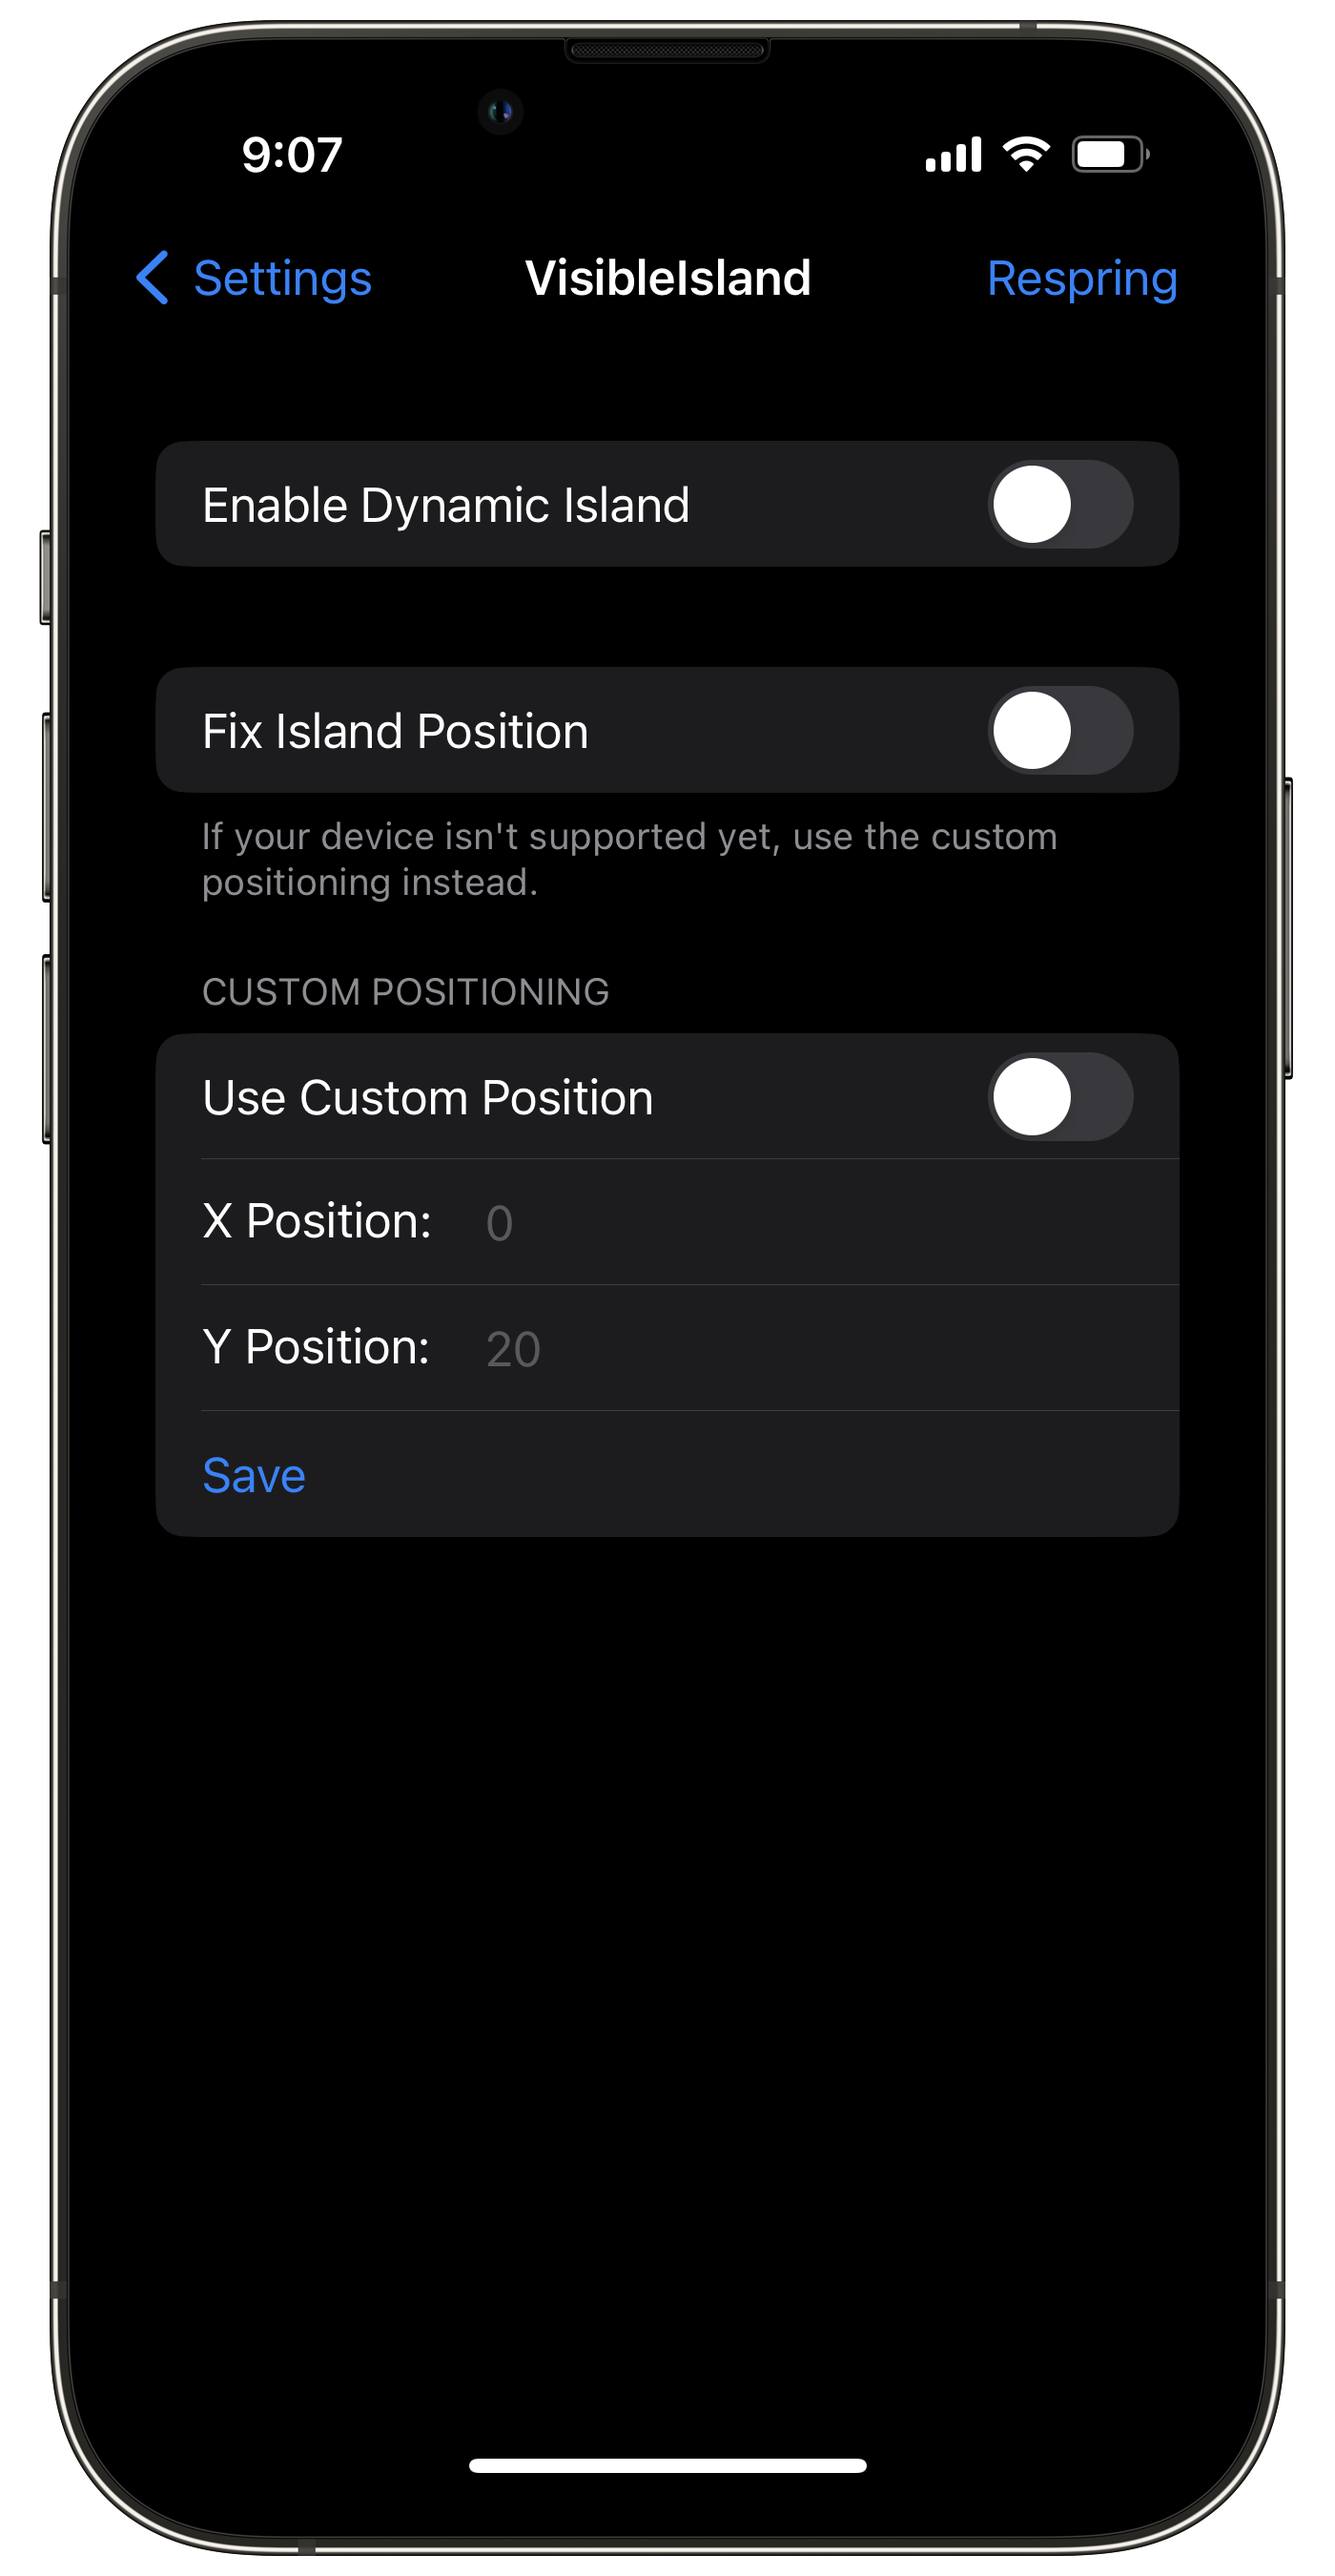
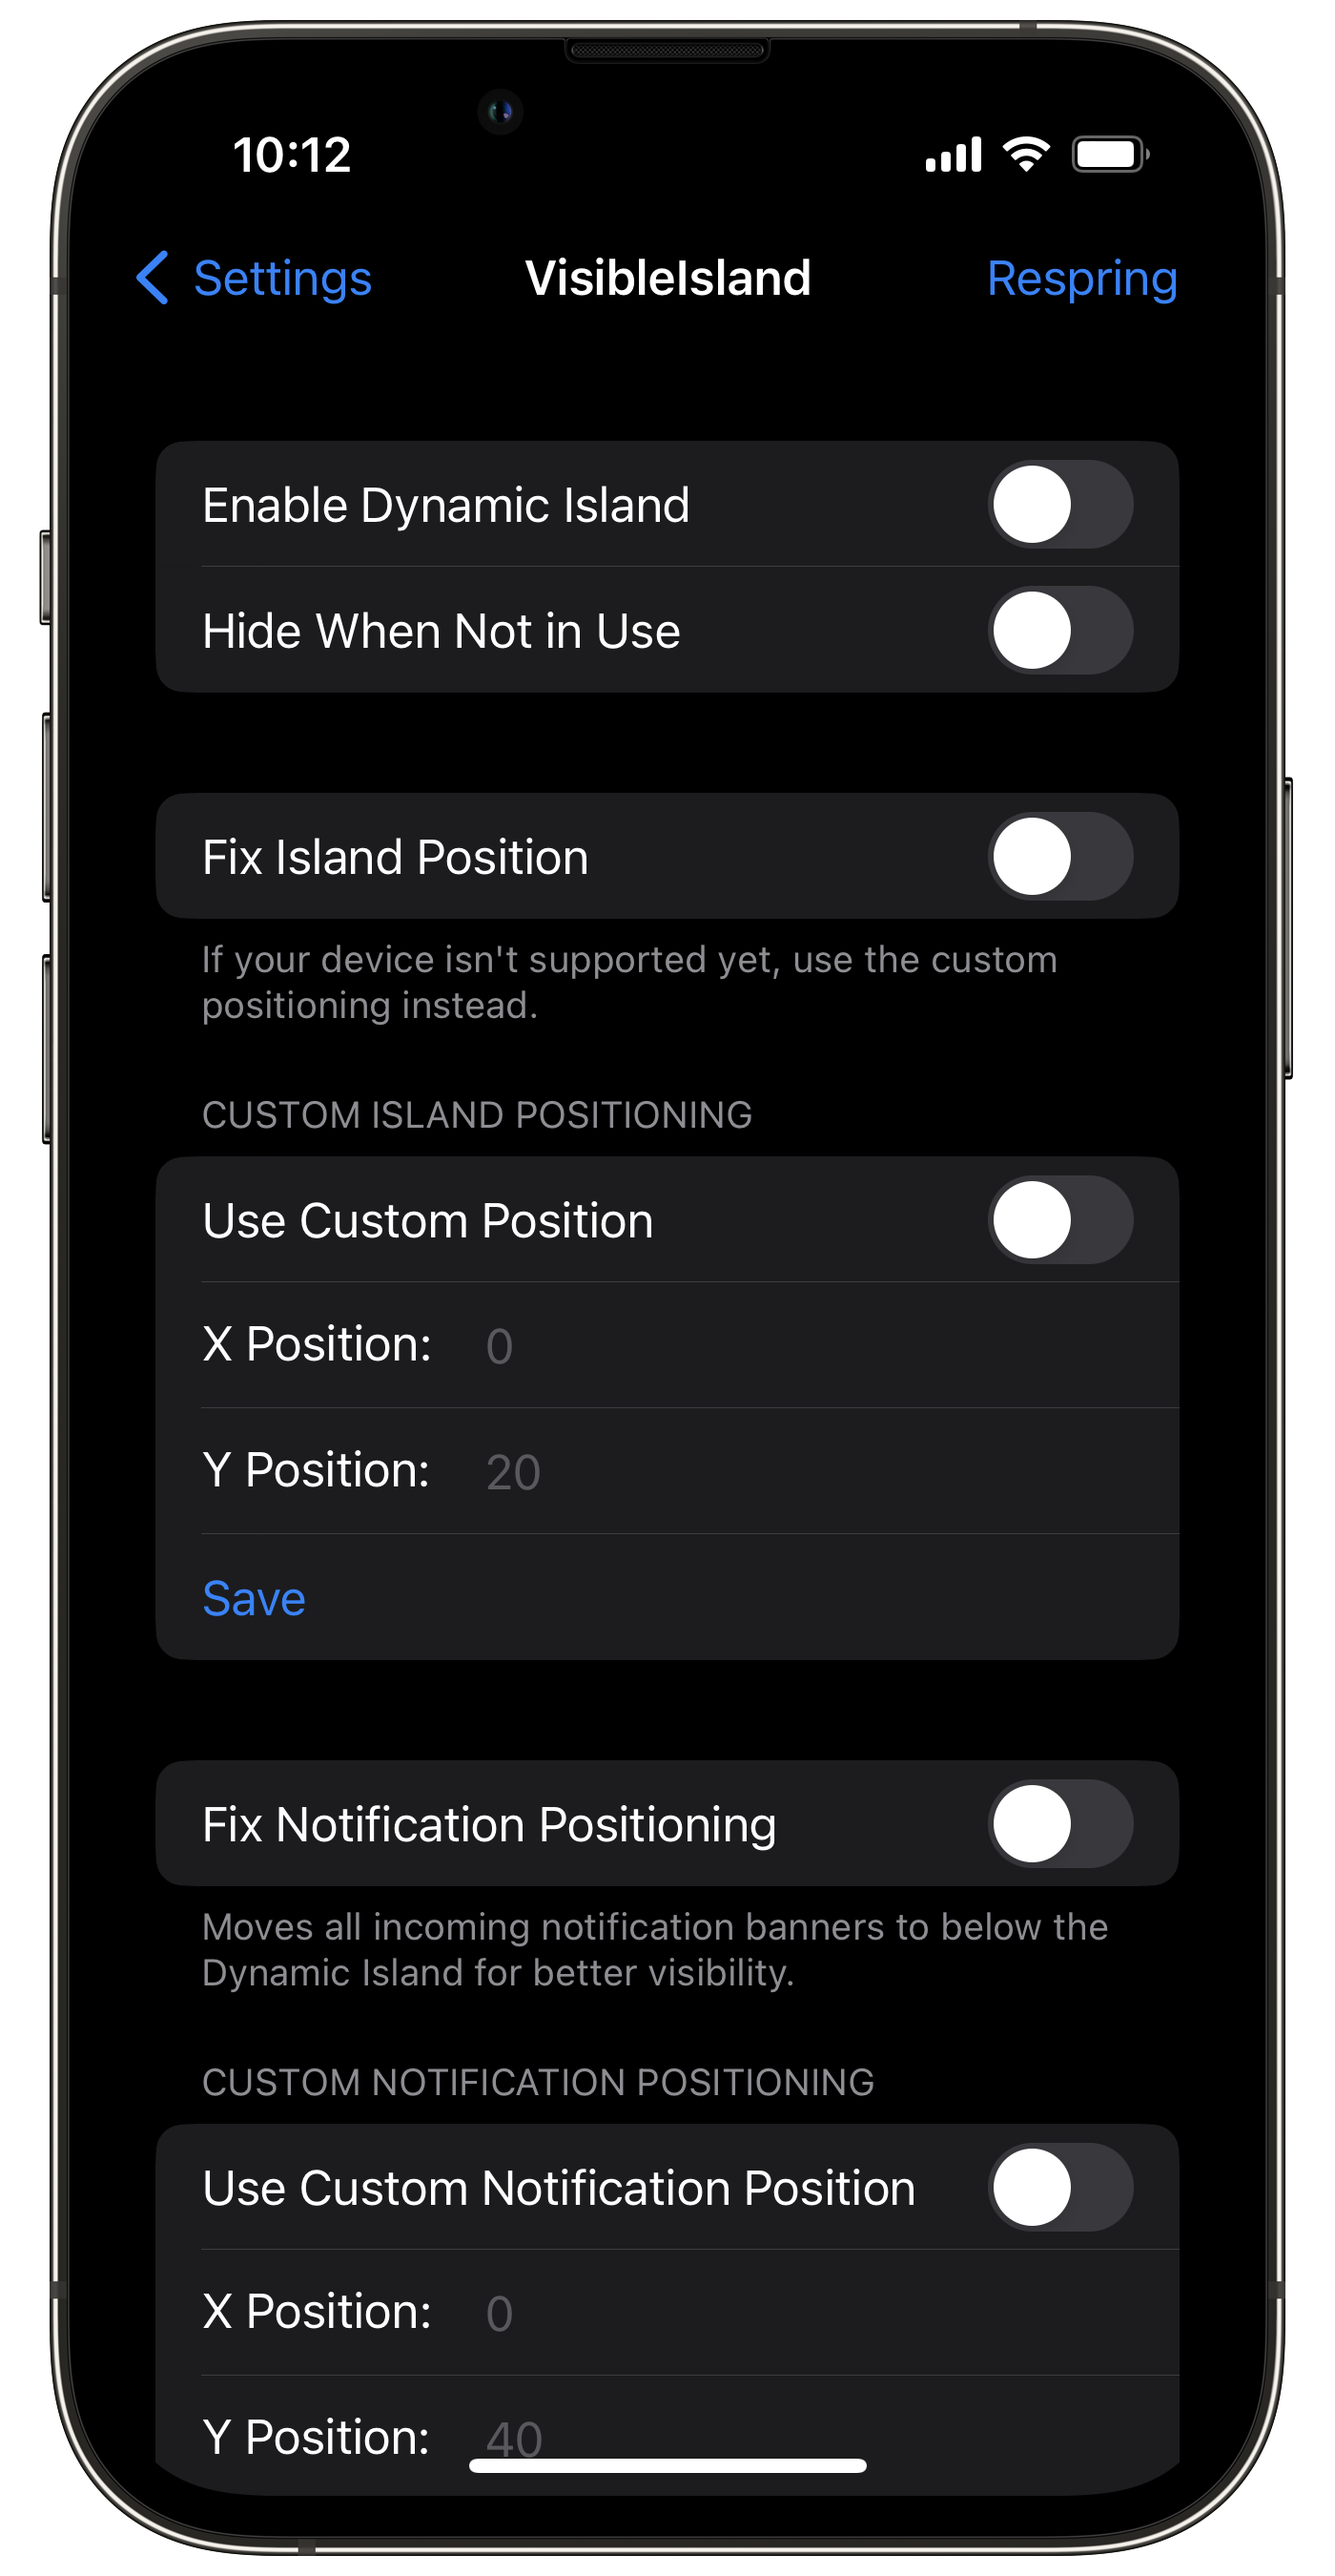
1.1-b1 final

diff --git a/repo/depiction/web/com.ethxnn88.visibleisland.html b/repo/depiction/web/com.ethxnn88.visibleisland.html
@@ -33,7 +33,7 @@
         </div>
         <div class="tweak_info">
             <p class="compatibility"><b>Compatibility:</b> This package is compatible with iOS iOS 16.0 to 16.6.1.</p>
-            <div class="scroll_view"><img class="img_card" src="../../assets/com.ethxnn88.visibleisland/screenshot/sc1.png"><img class="img_card" src="../../assets/com.ethxnn88.visibleisland/screenshot/sc2.png"></div>
+            <div class="scroll_view"><img class="img_card" src="../../assets/com.ethxnn88.visibleisland/screenshot/sc1.png"><img class="img_card" src="../../assets/com.ethxnn88.visibleisland/screenshot/sc2.png"><img class="img_card" src="../../assets/com.ethxnn88.visibleisland/screenshot/sc3.png"></div>
             <div class="md_view">
                 <p><h1>VisibleIsland</h1>
 <p>VisibleIsland brings a new and simple way to enable and configure the Dynamic Island on older devices.</p>
@@ -42,6 +42,9 @@
 <li>Enable/disable the Dynamic Island with the flip of a switch</li>
 <li>Fix the position of the Dynamic Island to be under the notch as opposed to halfway under it</li>
 <li>Set the position of the Dynamic Island to anywhere you want using custom X and Y offsets</li>
+<li>Hide the Dynamic Island when not in use</li>
+<li>Change the position of notification banners to below the island for better visibility</li>
+<li>Change the position of notification banners to anywhere using custom X and Y offsets</li>
 </ul>
 <p><strong>Disclaimer</strong></p>
 <p>As of now, the option to fix the Dynamic Island position to directly under the notch is only officially supported on a few devices (list below), as I don't have a huge spectrum of devices to test on. If your device isn't fully compatible, use the custom positioning instead.</p>
@@ -73,7 +76,7 @@
 <li>Possible iPad support</li>
 <li>Add options to customize the scale of the Dynamic Island</li>
 <li>Fix status bar size to accomodate for the Dynamic Island</li>
-<li>Add options to fix the position of notification banners (underneath the island) and/or set custom positioning</li>
+<li>Add options to change the color of the Dynamic Island</li>
 </ul>
 </p>
             </div>

diff --git a/repo/assets/com.ethxnn88.visibleisland/description.md b/repo/assets/com.ethxnn88.visibleisland/description.md
@@ -5,7 +5,10 @@ VisibleIsland brings a new and simple way to enable and configure the Dynamic Is
 - Enable/disable the Dynamic Island with the flip of a switch
 - Fix the position of the Dynamic Island to be under the notch as opposed to halfway under it
 - Set the position of the Dynamic Island to anywhere you want using custom X and Y offsets
-  
+- Hide the Dynamic Island when not in use
+- Change the position of notification banners to below the island for better visibility
+- Change the position of notification banners to anywhere using custom X and Y offsets
+
 
 **Disclaimer**
 
@@ -45,4 +48,4 @@ Full support for iOS 16.0 - 16.6.1, currently only built for/tested on roothide 
 - Possible iPad support
 - Add options to customize the scale of the Dynamic Island
 - Fix status bar size to accomodate for the Dynamic Island
-- Add options to fix the position of notification banners (underneath the island) and/or set custom positioning
+- Add options to change the color of the Dynamic Island
